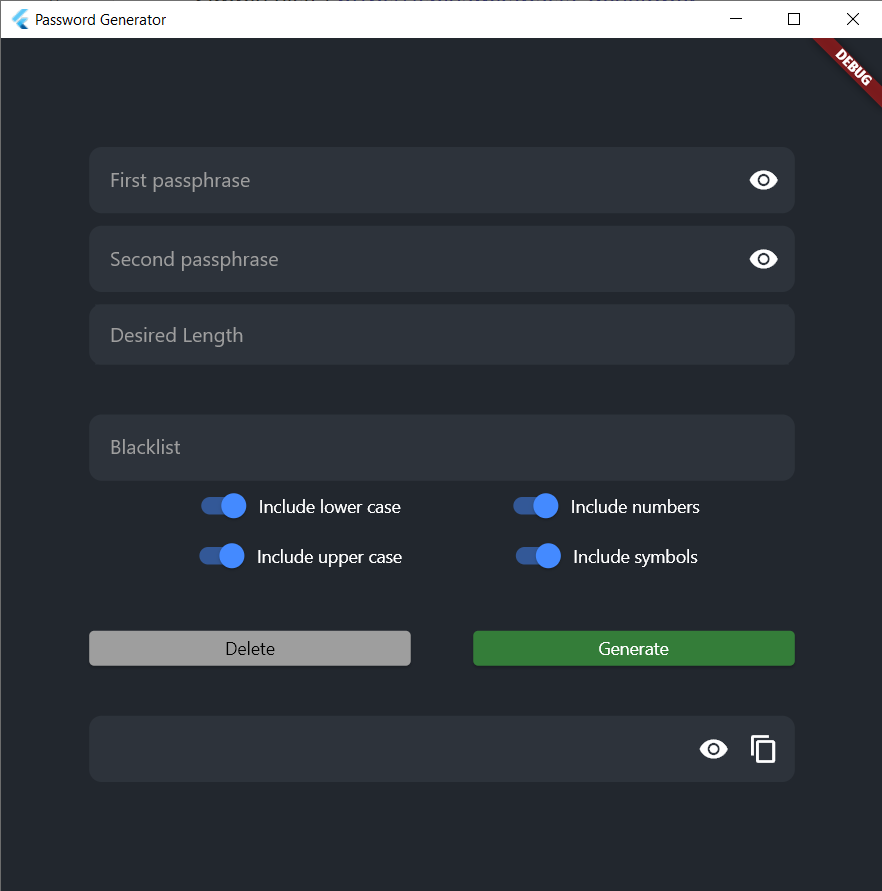
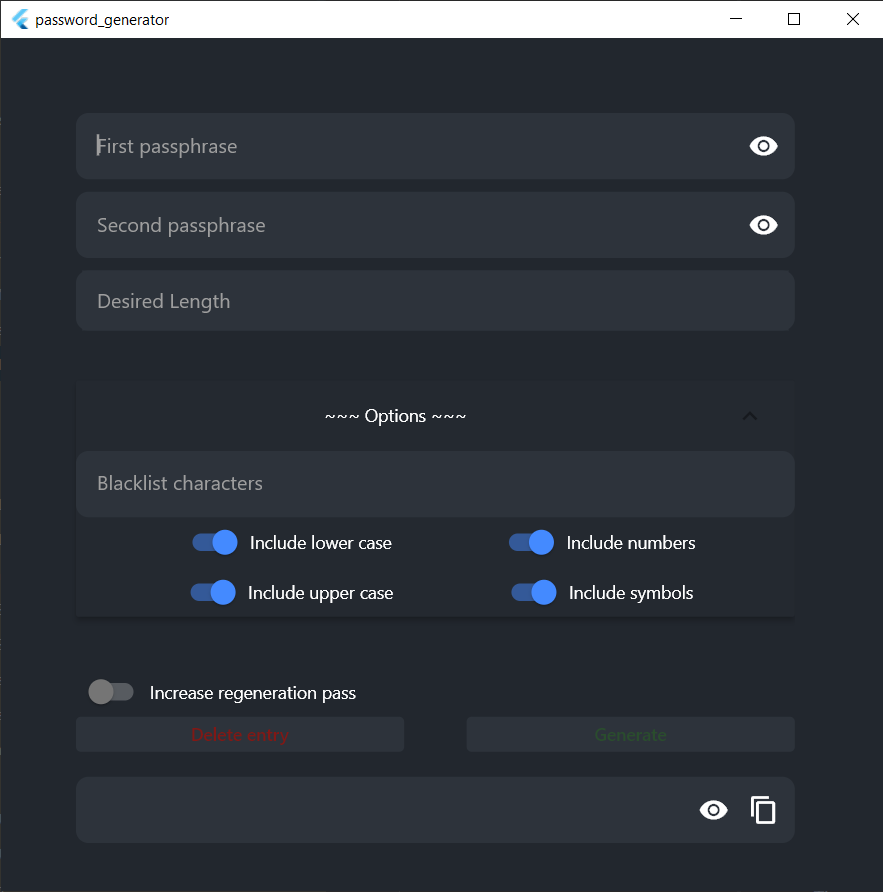
chore: Update README, fix Windows and android layout

diff --git a/lib/layout/GenerationForm.dart b/lib/layout/GenerationForm.dart
@@ -87,7 +87,7 @@ class _GenerationFormState extends State<GenerationForm> {
                             Consumer<PasswordState>(
                               builder: (context, state, child) =>
                                   CustomCheckbox(
-                                label: "Include lower case",
+                                label: "lower case",
                                 isChecked: state.includeLowerCase,
                                 onChanged: state.updateIncludeLowerCase,
                               ),
@@ -95,7 +95,7 @@ class _GenerationFormState extends State<GenerationForm> {
                             Consumer<PasswordState>(
                               builder: (context, state, child) =>
                                   CustomCheckbox(
-                                label: "Include upper case",
+                                label: "upper case",
                                 isChecked: state.includeUpperCase,
                                 onChanged: state.updateIncludeUpperCase,
                               ),
@@ -107,7 +107,7 @@ class _GenerationFormState extends State<GenerationForm> {
                             Consumer<PasswordState>(
                               builder: (context, state, child) =>
                                   CustomCheckbox(
-                                label: "Include numbers",
+                                label: "numbers",
                                 isChecked: state.includeNumbers,
                                 onChanged: state.updateIncludeNumber,
                               ),
@@ -115,7 +115,7 @@ class _GenerationFormState extends State<GenerationForm> {
                             Consumer<PasswordState>(
                               builder: (context, state, child) =>
                                   CustomCheckbox(
-                                label: "Include symbols",
+                                label: "symbols",
                                 isChecked: state.includeSymbols,
                                 onChanged: state.updateIncludeSymbols,
                               ),

diff --git a/lib/layout/HomePage.dart b/lib/layout/HomePage.dart
@@ -15,25 +15,31 @@ class _HomePageState extends State<HomePage> {
   @override
   Widget build(BuildContext context) => Scaffold(
         backgroundColor: const Color(0xff22272e),
-        body: FractionallySizedBox(
-          widthFactor: .9,
-          alignment: Alignment.center,
-          child: SingleChildScrollView(
-            padding: const EdgeInsets.fromLTRB(60, 20, 0, 60),
-            scrollDirection: Axis.vertical,
-            child: Column(
-              mainAxisAlignment: MainAxisAlignment.end,
-              mainAxisSize: MainAxisSize.max,
-              crossAxisAlignment: CrossAxisAlignment.center,
-              children: const <Widget>[
-                SizedBox(height: 40),
-                GenerationForm(),
-                SizedBox(height: 40),
-                ActionsRow(),
-                SizedBox(height: 20),
-                PasswordDisplay()
-              ],
-            ),
+        body: SingleChildScrollView(
+          padding: const EdgeInsets.fromLTRB(60, 40, 0, 60),
+          scrollDirection: Axis.vertical,
+          child: Column(
+            mainAxisAlignment: MainAxisAlignment.center,
+            crossAxisAlignment: CrossAxisAlignment.center,
+            children: <Widget>[
+              FractionallySizedBox(
+                widthFactor: .9,
+                alignment: Alignment.center,
+                child: Column(
+                  mainAxisAlignment: MainAxisAlignment.end,
+                  mainAxisSize: MainAxisSize.max,
+                  crossAxisAlignment: CrossAxisAlignment.center,
+                  children: const <Widget>[
+                    SizedBox(height: 40),
+                    GenerationForm(),
+                    SizedBox(height: 40),
+                    ActionsRow(),
+                    SizedBox(height: 20),
+                    PasswordDisplay()
+                  ],
+                ),
+              ),
+            ],
           ),
         ),
       );

diff --git a/README.md b/README.md
@@ -23,3 +23,7 @@ Grab a binary in the release section of this repository.
 * Run `flutter build windows` to build the application
 * The resulting artifact is located at `[project]/build/windows/runner/Release`
 * [Optional] Run `flutter pub run msix:create` to create an msix installer
+
+
+Sources:
+- warning icon: [stickpng.com](https://www.stickpng.com/img/miscellaneous/safety-symbols-and-signs/warning-icon)
